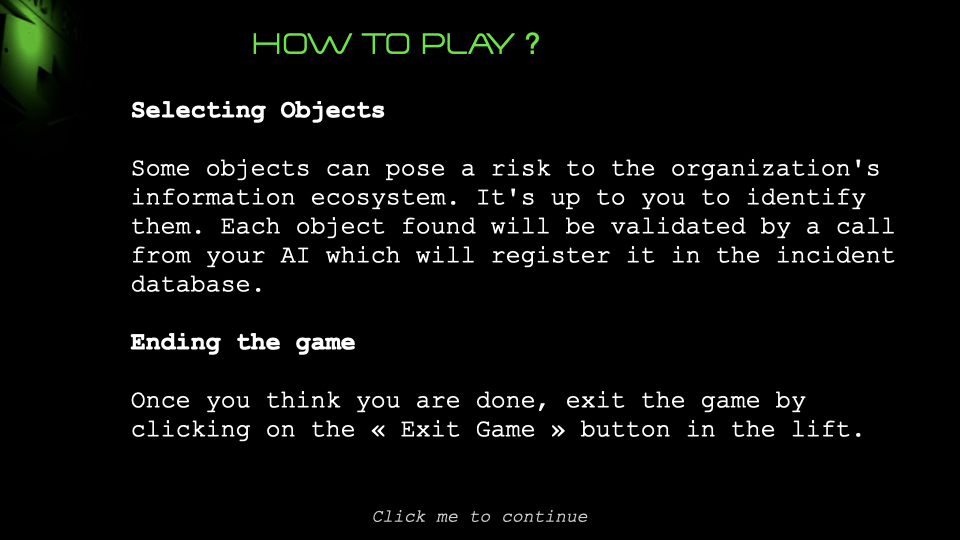
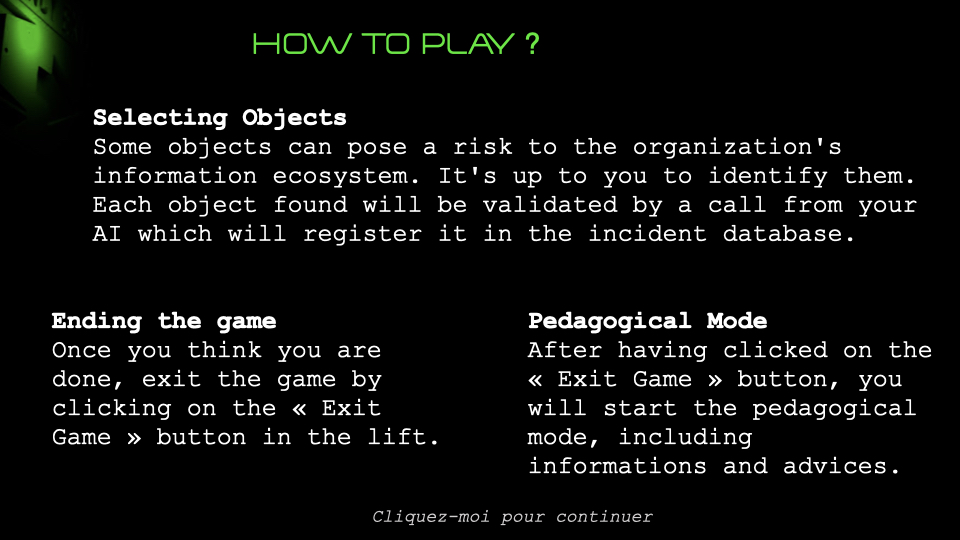
updates

Changed region(s): [[0.0312, 0.1778, 0.9688, 0.8889], [0.4062, 0.9481, 0.6875, 0.9778], [0.9375, 0.6222, 0.9688, 0.6815]]

diff --git a/resources/pages/GAMETEST-LOW/low.html b/resources/pages/GAMETEST-LOW/low.html
@@ -29,9 +29,9 @@
     <a-video id="Wireshark" autoplay="" loop="true" src="./resources/GameInfo/Wireshark.mp4" material="" geometry="" position="-7.29201 1.73743 -36.08536" rotation="0 90 0" scale="0.95 0.5 1"></a-video>
     <a-image id="silly" src="./resources/GameInfo/whary.png" position="2.22443 0.80699 -1.09333" rotation="0 179.9998479605043 0" scale="3 3 0.00001" class="boom"></a-image>
     <a-image id="babar" src="./resources/GameInfo/babar.jpg" scale="0.5 0.5 0.5" position="-3.06566 1.74335 -37.02314" material="blending: none" geometry="" rotation=""></a-image>
-    <a-entity id="fan1" sound="src: ./resources/sounds/fan.mp3; autoplay: true; loop: true; distanceModel: linear; maxDistance: 5.5; volume: 0.7" position="-2.99085 2.39118 -15.94901"> </a-entity>
-    <a-entity id="fan3" sound="src: ./resources/sounds/fan.mp3; autoplay: true; loop: true; distanceModel: linear; maxDistance: 5.5; volume: 0.7" position="-2.99085 2.39118 -15.94901"> </a-entity>
-    <a-entity id="fan2" sound="src: ./resources/sounds/fan.mp3; autoplay: true; loop: true; distanceModel: linear; maxDistance: 5.5; volume: .7" position="0.96278 2.36596 -26.90182"> </a-entity>    
+    <a-entity id="fan1" sound="src: ./resources/sounds/fan.mp3; autoplay: true; loop: true; distanceModel: linear; maxDistance: 5.5; volume: 2" position="-2.99085 2.39118 -15.94901"> </a-entity>
+    <a-entity id="fan3" sound="src: ./resources/sounds/fan.mp3; autoplay: true; loop: true; distanceModel: linear; maxDistance: 5.5; volume: 2" position="-2.99085 2.39118 -15.94901"> </a-entity>
+    <a-entity id="fan2" sound="src: ./resources/sounds/fan.mp3; autoplay: true; loop: true; distanceModel: linear; maxDistance: 5.5; volume: 2" position="0.96278 2.36596 -26.90182"> </a-entity>    
 </a-entity>
 
 <a-entity id="assets">
@@ -52,6 +52,10 @@
         <a-entity id="Statue" modify-materials modelfix obj-model="obj: ./resources/objects/Nabot2.obj" material="color: red" scale="" position="0 -26.30906 36.59847" rotation="0 -29.999999999999996 0" class="raycastable"> </a-entity>
             <a-entity id="porte-fridge" sound="src: ./resources/sounds/trolled.mp3; on: click; loop: true" object="soundname: 12" door="inversed: true" modelfix obj-model="obj: ./resources/GameInfo/Models/frigo-porte.obj" scale="1 1 1" position="-30.4 54.7 56.2" class="boom raycastable" rotation="0 0 0"> </a-entity>
     </a-entity>
+
+    <a-box id="classeur" object="soundname: 8;  id: 8," position="-6.9286 2.05817 -38.84025" scale="0.2 0.3 0.1" class="boom raycastable" material="color: #4f7a28">
+        <a-text translate="text" id="confidential_file" position="0.51815 -0.48601 0.13074" scale="0.5 1 0.1" rotation="0 90 90"></a-text>
+    </a-box>
 
     <a-entity id="printer" modelfix obj-model="obj: ./resources/objects/game/infosectest1/Corridor/Printer.obj" scale="0.007 0.007 0.007" position="1.42065 -0.0622 -38.91808" class="boom" rotation="0 -90 0">
         <a-box object="soundname: 1; id: 1;" material="emissive: #ffffff" position="48.93 121.5 42.1" scale="56.36355 0.00001 35.58259" interactive="position: 0 0 -.3; rotation: 0 90 90;" class="raycastable">
@@ -97,7 +101,7 @@
     <a-light id="L5" mixin="llight" position="-4.47815 0.71695 -43.96733"></a-light>
     <a-light id="L6" mixin="llight" position="-4.85625 0.34069 -44.84927"></a-light>
     <a-light id="L7" mixin="llight" position="-3.46923 0.46205 -37.64691"></a-light>
-    <!-- <a-light id="L8" mixin="llight" position="-3.12171 0 -41.05685"></a-light> -->
+    <a-light id="L8" mixin="llight" position="-6.71829 2.11996 -38.7842"></a-light>
     <a-light id="L10" mixin="llight" position="-5.09204 0.88868 -43.6288"></a-light>
     <a-light id="B11" mixin="llight" visible="false"></a-light>
 </a-entity>
@@ -110,7 +114,13 @@
     <a-entity id="pedago_object05" mixin="infotext" position="-3.86104 1.00469 -44.48025" rotation="0 0.9195972611849712 0"></a-entity>
     <a-entity id="pedago_object06" mixin="infotext" position="-4.96523 0.42651 -45.20894" rotation="0 36.98156088671898 0"></a-entity>
     <a-entity id="pedago_object07" mixin="infotext" position="-3.52704 0.83193 -37.48643" rotation="-4.855244355938596 -177.81344101428508 -2.7891585466968474"></a-entity>
+    <a-entity id="pedago_object08" mixin="infotext" position="-6.82199 1.65644 -38.10788" rotation="0 90 0"></a-entity>
     <a-entity id="pedago_object10" mixin="infotext" position="-4.70407 0.35218 -43.37592" rotation="0 33.234416906563396 0"></a-entity>
+    <a-entity id="pedago_object12" mixin="infotext" position="-7.79146 0.88888 -35.93245" rotation="0 90 0"></a-entity>
+    <a-entity id="pedago_object13" mixin="infotext" position="-5.21805 -0.04126 -37.00623" rotation="-90 0 0"></a-entity>
+    <a-entity id="pedago_object14" mixin="infotext" position="-6.27757 -0.04354 -35.26634" rotation="-90 180 0"></a-entity>
+    <a-entity id="pedago_object15" mixin="infotext" position="-1.28684 2.27681 -35.59192" rotation="0 90 0"></a-entity>
+    <a-entity id="pedago_object16" mixin="infotext" position="-3.04297 -0.0484 -37.02852" rotation="-90 0 0"></a-entity>
     <!-- <a-entity id="pedago_object11" mixin="infotext" position="1.41174 1.53403 -38.30979" rotation="0 -90 0"></a-entity> -->
 
 </a-entity>
@@ -244,7 +254,7 @@
 <a-entity ender id="ender" position="-.02 .3 .04">
     <a-box id="action" position="0 0.7 -0.25918" class="boom raycastable" material="blending: multiply; color: #00ff40; emissive: #00ff00" geometry="" scale="0.31746 0.1713 0.86"></a-box>
 
-    <a-entity id="part" position=".06 .7 -2" particle-system="color: #EF0000, #44CC00; size: 0.1; duration: 1; positionSpread: 1 1 1; rotationAngleSpread: 2; accelerationValue: 0 0 0; velocityValue: 0 2 0; velocitySpread: 1 1 1; randomise: true; maxParticleCount: 10000"> </a-entity>
+    <!--<a-entity id="part" position=".06 .7 -2" particle-system="color: #EF0000, #44CC00; size: 0.1; duration: 1; positionSpread: 1 1 1; rotationAngleSpread: 2; accelerationValue: 0 0 0; velocityValue: 0 2 0; velocitySpread: 1 1 1; randomise: true; maxParticleCount: 10000"> </a-entity>-->
     <a-entity id="text" text="align: center; value: END GAME; color: #ff0000; width: 1.2" position="0 0.70455 -0.69602" rotation="0 180 0"> </a-entity>
 </a-entity>
 
@@ -256,7 +266,7 @@
     <a-entity id="langs" position="0 -.48 0">
         <a-entity text="value: Choose a language\nChoisissez une langue; align: center" scale="10 10 1" position="-11.51918 3.41847 2.39623" rotation="20 0 0"></a-entity>
         <a-image id="fr" src="./resources/GameInfo/fr.png" position="-12.4 2.233 2.551" scale="1 0.7 0.7" class="raycastable" material geometry></a-image>
-        <a-image id="en" src="./resources/GameInfo/en.png" position="-10.6 2.233 2.551" scale="1 0.7 0.7" class="raycastable" material geometry></a-image>
+        <a-image id="en" src="./resources/GameInfo/en.png" position="-10.6 2.233 2.551" scale="1 0.7 0.7" class="raycastable" material geometry></a-image>>
     </a-entity>
 
     <a-image id="clicker" translate src="./resources/objects/game/Diapositive1.jpeg" position="-11.53424 2.23284 2.55092" scale="4sp 2 0.8" class="raycastable" visible="false"></a-image>
